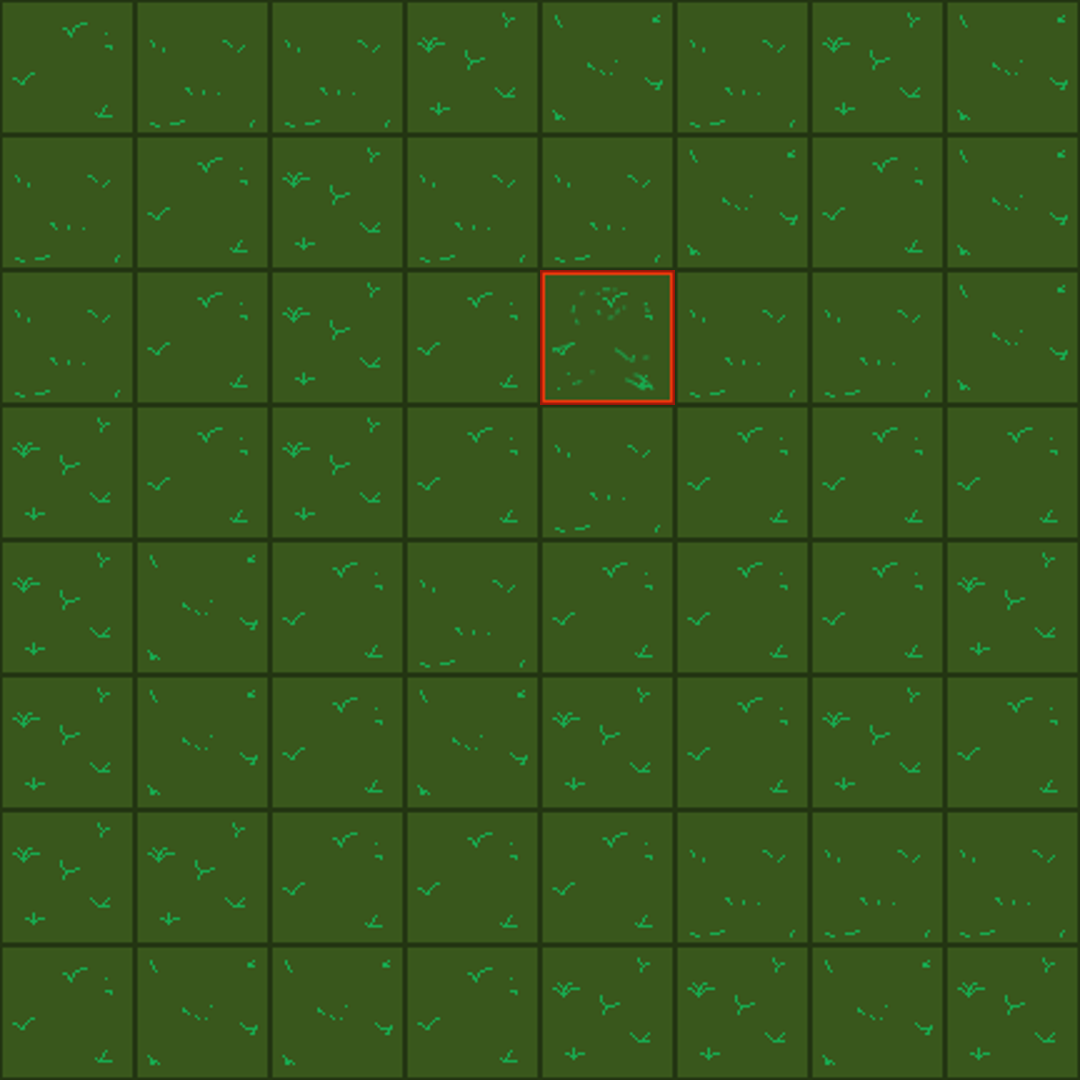
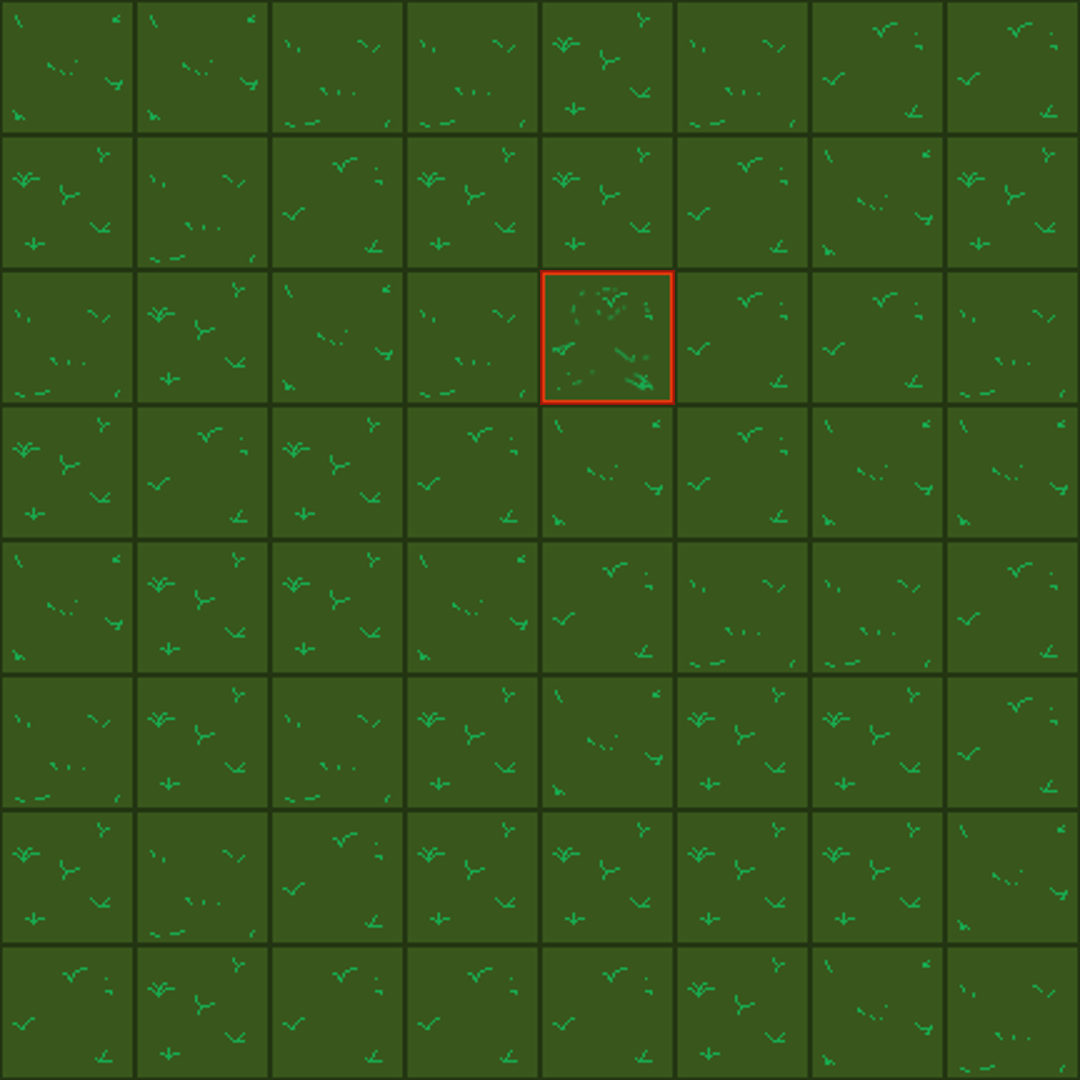
ch-ch-ch-ch-changes

diff --git a/BGEvr/Controller/gameplay_manager.py b/BGEvr/Controller/gameplay_manager.py
@@ -1,20 +1,19 @@
-from Controller import Data_loader
+from Controller.Data_loader import Data
 from View import render
 from PIL import Image
 
 class Game():
-    def __init__(self, user_id=-1):
+    def __init__(self, user_id,db,player):
+        self.player = player
+        self.db = db
         self.user_id = user_id
-        self.data_loader = Data_loader.Data(self.user_id)
-        self.user_data = self.data_loader.load_user_data()
+        self.data_loader = Data(self.user_id)
         self.building_data = self.data_loader.load_game_data()
         self.render = render.Render()
-        self.build_price = 0
 
     def create_house(self, name, position):
-        self.building_data = self.data_loader.load_game_data()
         _building = self.building_data["buildings"][name]
-        _map = self.user_data["map_data"]
+        #_map = self.user_data["map_data"]
 
         map_posing = []
         for i in range(_building["size"]):
@@ -27,28 +26,32 @@ class Game():
             _building["position"] = map_posing[0]
             self.build_price = _building["price"]
             print(_building["price"])
-            self.user_data["money"] -= self.build_price
+            self.player.player_money -= self.build_price
 
-            self.user_data["map_data"] = _map
-            self.user_data["houses_data"].append(_building)
-            print(_building["position"], "building complete pos")
-            print(_building["position"], "Ready Pos\n\n")
+            #self.user_data["map_data"] = _map
+            #self.user_data["houses_data"].append(_building)
+            _house_id = self.db.insert_batch("houses",[{"type" : _building["type"],"pos_x" : self.player.player_pos_x,"pos_y" : self.player.player_pos_y,"house_level" : 1}])[0]
+            str_of_houses = self.db.select_by_user_id("user_info",self.user_id)[3]
+            if str_of_houses == 'no_buildings':
+                str_of_houses = str(_house_id)
+            else:
+                str_of_houses += ','
+                str_of_houses += str(_house_id)
+            building_request = f"""house_id = {str_of_houses}"""
+            
+            self.db.update("user_info",building_request,self.user_id)
+            #print(_building["position"], "building complete pos")
+            #print(_building["position"], "Ready Pos\n\n")
             #print(self.user_data["houses_data"])
-            self.data_loader.save_user_data()
-            print(self.user_data)
+            #self.data_loader.save_user_data()
+            #print(self.user_data)
 
         else:
             print("Can't Create")
 
 
     def check_can_build(self, maping):
-        _map = self.user_data["map_data"]
-
-        for i in range(len(maping)):
-            for j in range(len(maping[i])):
-                if _map[maping[i][0]][maping[i][1]] == 1:
-                    return False
-        return True
+        return 1
 
     def show_map(self):
         self.render.render(self.user_data).show()

diff --git a/BGEvr/Model/player.py b/BGEvr/Model/player.py
@@ -1,13 +1,21 @@
 from Controller.Data_loader import *
 from Controller.gameplay_manager import *
+from database_adapter import *
 class Player:
-    def __init__(self,user_id):
+    def __init__(self,user_id,db):
+        self.db = db
         self.user_id = user_id
-        self.game = Game(self.user_id)
+        self.game = Game(self.user_id,self.db,self)
         self.dataloader = Data(self.user_id)
-        self.progress = self.dataloader.load_user_data()
-        self.player_pos_x = 1
-        self.player_pos_y = 1
+        #self.progress = self.dataloader.load_user_data()
+        print(self.db.select_by_user_id("user_info",self.user_id))
+        self.player_pos_x = self.db.select_by_user_id("user_info",self.user_id)[0][0]
+        self.player_pos_y = self.db.select_by_user_id("user_info",self.user_id)[0][1]
+        self.player_money = self.db.select_by_user_id("user_info",self.user_id)[0][8]
+        self.player_units = self.db.select_by_user_id("user_info",self.user_id)[0][2]
+        self.progress = {"x" : self.player_pos_x,"y" : self.player_pos_y}
+
+
 
     def player_move(self,move):
         #print(len(self.progress["map_data"][0]))
@@ -23,22 +31,24 @@ class Player:
         else:
             print("куда валишь??77?7??777777?77?7")
         self.dataloader.save_user_data("""
-        if move == 'u' and self.player_pos_y > 0:
-            self.player_pos_y -= 1
-        if move == 'd' and self.player_pos_y < 8:
-            self.player_pos_y += 1
-        if move == 'r' and self.player_pos_x < 8:
-            self.player_pos_x += 1
-        if move == 'l' and self.player_pos_x> 0:
+        if move == 'u' and self.player_pos_x > 0:
             self.player_pos_x -= 1
-        self.progress["player_position"][0] = self.player_pos_x
-        self.progress["player_position"][1] = self.player_pos_y
+        if move == 'd' and self.player_pos_x < 8:
+            self.player_pos_x += 1
+        if move == 'r' and self.player_pos_y < 8:
+            self.player_pos_y += 1
+        if move == 'l' and self.player_pos_y > 0:
+            self.player_pos_y -= 1
+        self.progress = {"x" : self.player_pos_x,"y" : self.player_pos_y}
+        move_request = f"""pos_x = {self.player_pos_x},pos_y = {self.player_pos_y}"""
+        self.db.update("user_info",move_request,self.user_id)
+        
     
     def next_turn(self):
         pass
     
     def build_smth(self,buiding):
-        self.game.create_house(buiding,self.progress["player_position"])
+        self.game.create_house(buiding,[self.progress["x"],self.progress["y"]])
         self.player_move('d')
 
     def player_info(self):

diff --git a/BGEvr/botik.py b/BGEvr/botik.py
@@ -54,7 +54,7 @@ class RunGameBot:
         self.data_loader = Data(self.user.id)
         self.game_data = self.data_loader.load_game_data()
         self.progress = self.data_loader.load_user_data()
-        self.player = Player(self.user.id)
+        self.player = Player(self.user.id,self.db)
         self.render.render(self.player.progress)
         self.render.save_pic(self.user.id)
         self.player_view = ViewTG(self.user.id,self.token)
@@ -67,7 +67,7 @@ class RunGameBot:
                 _res += 1
 
         if _res == 0:
-            self.db.insert_batch("user_info",[{"pos x" : 1,"pos y" : 1, "units" : 10, "house_id" : 'no_buildings', "chat_id" : self.user.id,"user_id" : self.user.id,"created" : int(datetime.now().timestamp()), "updated" : int(datetime.now().timestamp()),"money" : 100,"user_nickname" : self.user.full_name}])
+            self.db.insert_batch("user_info",[{"pos_x" : 1,"pos_y" : 1, "units" : 10, "house_id" : 'no_buildings', "chat_id" : self.user.id,"user_id" : self.user.id,"created" : int(datetime.now().timestamp()), "updated" : int(datetime.now().timestamp()),"money" : 100,"user_nickname" : self.user.full_name}])
             
 
 
@@ -104,7 +104,7 @@ class RunGameBot:
         self.render.render(self.player.progress)
         self.render.save_pic(self.user.id)
         self.player_view.send_pic(Update,CallbackContext)
+        get_request = f"""updated={int(datetime.now().timestamp())},pos_x = {self.player.player_pos_x},pos_y = {self.player.player_pos_y}"""
+        self.db.update("user_info",get_request,self.user.id)
         update.callback_query.message.edit_text(f"Чё делать будешь? \n {self.txt}",reply_markup=InlineKeyboardMarkup(self.used_keyboard))
         self.txt = ''
-        get_request = f"""updated={int(datetime.now().timestamp())},pos x = {self.player.player_pos_x},pos y = {self.player.player_pos_y}"""
-        self.db.update("user_info",get_request,self.user.id)

diff --git a/BGEvr/View/render.py b/BGEvr/View/render.py
@@ -7,8 +7,8 @@ class Render:
     def render(self, data):
         self._map = Image.new(mode="RGBA", size=(1080, 1080), color=000000)
 
-        _map_size = data["map_size"]
-        _user_buildings = data["houses_data"]
+        _map_size = 8 #data["map_size"]
+        #_user_buildings = data["houses_data"]
         _ground = ['ground1.png', 'ground2.png', 'ground3.png', 'ground4.png']
 
         _one_point_size = 1080//_map_size
@@ -18,15 +18,15 @@ class Render:
             for j in range(_map_size):
                 _cycle_ground = Image.open(f"./res/{_ground[random.randint(0, 3)]}").resize((_one_point_size, _one_point_size))
                 self._map.paste(_cycle_ground, (i*_one_point_size, j*_one_point_size))
-                if j == data["player_position"][1] and i == data["player_position"][0]:
+                if j == data["x"] and i == data["y"]:
                     self._map.paste(_selected,(i*_one_point_size, j*_one_point_size))
 
 
-        for i in range(len(_user_buildings)):
+        """for i in range(len(_user_buildings)):
             _building_texture = Image.open(f'./res/{_user_buildings[i]["texture"]}').resize((_one_point_size*_user_buildings[i]["size"], _one_point_size*_user_buildings[i]["size"]))
             _building_texture = _building_texture.convert('RGBA')
             self._map.paste(_building_texture, (_user_buildings[i]["position"][0]*_one_point_size, _user_buildings[i]["position"][1]*_one_point_size), mask=_building_texture)
-
+"""
         return self._map
     def save_pic(self,user_id):
         self._map.save(f"./players_images/{user_id}.png")

diff --git a/BGEvr/database_adapter.py b/BGEvr/database_adapter.py
@@ -36,8 +36,16 @@ class Adapter():
         data = self.cursor.fetchall()
         return data
     
+
+    def select_by_user_id(self, table,user_id):
+        request = f"""SELECT * FROM "{self.schema_name}"."{table}" WHERE user_id = {user_id}"""
+        self.cursor.execute(request)
+        data = self.cursor.fetchall()
+        return data
+    
     def update(self, table, request, id):
         request_update = f"""UPDATE "{self.schema_name}"."{table}" SET {request} WHERE user_id={id}"""
+        print(request_update)
         self.cursor.execute(request_update)
         self.conn.commit()
 
@@ -53,15 +61,14 @@ class Adapter():
                     row[key] = str(row[key])
                 elif isinstance(row[key], str):
                     row[key] = f"'{row[key]}'"
-
+        t = []
         for i in range(len(data)):
             names = f'"{'","'.join(list(data[i].keys()))}"'
-            request_insert = f"""INSERT INTO "{self.schema_name}"."{table}" ({names}) VALUES ({",".join(list(data[i].values()))})"""
+            request_insert = f"""INSERT INTO "{self.schema_name}"."{table}" ({names}) VALUES ({",".join(list(data[i].values()))})""" # RETURNS {id_name}
             print(request_insert)
             self.cursor.execute(request_insert)
         self.conn.commit()
-
-
+        return t
     def delete(self,table,id):
         request_delete = f"""DELETE FROM "{self.schema_name}"."{table}" WHERE user_id = {id}"""
         self.cursor.execute(request_delete)
